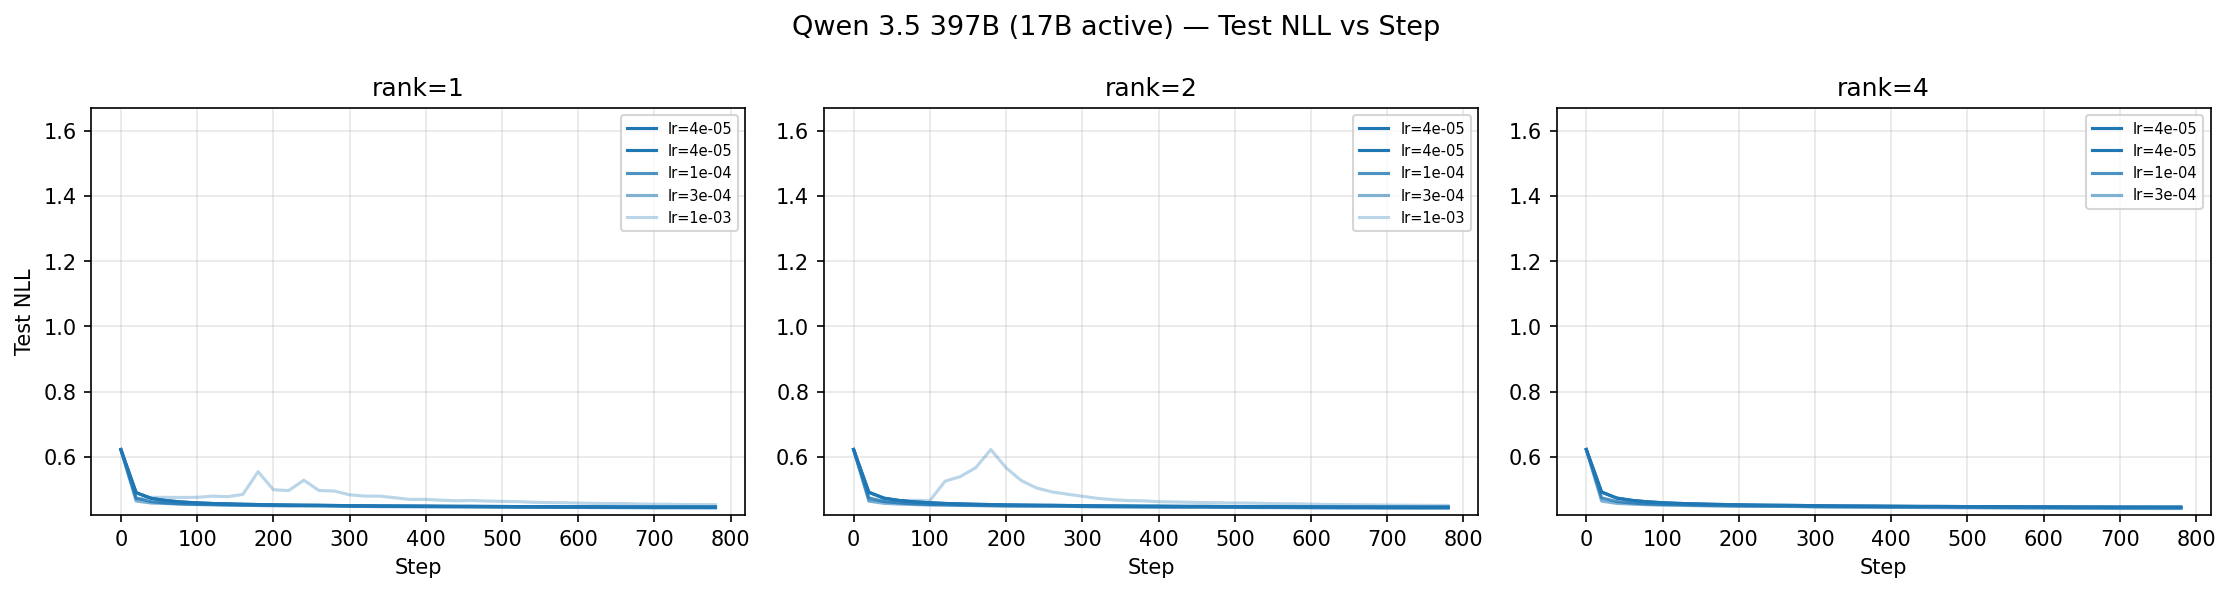
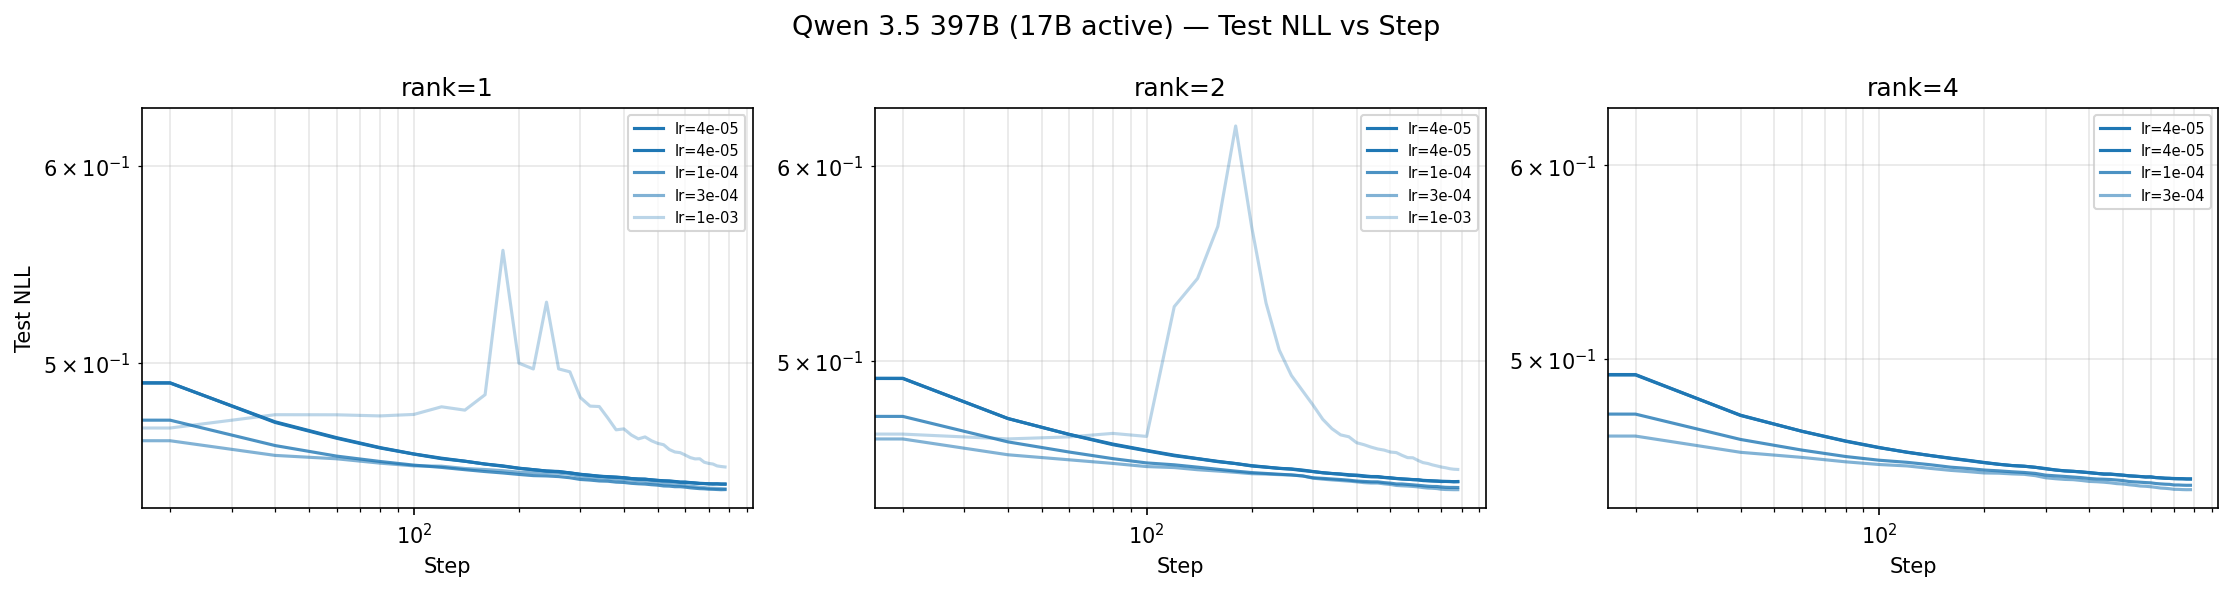
Improve sweep results: log-scale plots, TOC, wall time caveat
- Use log scale for both x and y axes in NLL curve plots for better
  visibility across orders of magnitude
- Add table of contents to sft_sweep.md for easier navigation
- Add note that wall times are approximate and server-dependent

diff --git a/tinker_cookbook/recipes/chat_sl/sweep/analyze.py b/tinker_cookbook/recipes/chat_sl/sweep/analyze.py
@@ -263,22 +263,10 @@ def generate_nll_plot(
                 alpha=lr_alpha.get(r.lr, 0.5),
             )
 
+        ax.set_xscale("log")
+        ax.set_yscale("log")
         ax.legend(fontsize=7, loc="upper right")
-        ax.grid(True, alpha=0.3)
-
-    # Shared y-axis across subplots for this model, with a small margin
-    all_nlls = [
-        nll
-        for r in runs
-        if r.test_nll < DIVERGENCE_THRESHOLD
-        for _, nll in r.history
-        if nll < DIVERGENCE_THRESHOLD
-    ]
-    if all_nlls:
-        ymin = min(all_nlls) - 0.02
-        ymax = max(all_nlls) + 0.02
-        for col in range(n_ranks):
-            axes[0][col].set_ylim(ymin, ymax)
+        ax.grid(True, alpha=0.3, which="both")
 
     plt.tight_layout()
 
@@ -396,7 +384,13 @@ def generate_model_section(
     return "\n".join(lines)
 
 
+def _heading_to_anchor(heading: str) -> str:
+    """Convert a markdown heading to a GitHub-compatible anchor link."""
+    return heading.lower().replace(" ", "-").replace("(", "").replace(")", "")
+
+
 def generate_sft_sweep_md(
+    model_names: list[str],
     model_sections: list[str],
 ) -> str:
     """Generate the full sft_sweep.md document."""
@@ -413,6 +407,19 @@ def generate_sft_sweep_md(
     lines.append("- Batch size: 128")
     lines.append("- Training steps: 780")
     lines.append("- Adapter: LoRA")
+    lines.append("")
+    lines.append(
+        "> **Note:** Wall times are approximate and depend on server load at the time of "
+        "the run. They may fluctuate significantly between runs."
+    )
+    lines.append("")
+
+    # Table of contents
+    lines.append("## Table of Contents")
+    lines.append("")
+    for name in model_names:
+        anchor = _heading_to_anchor(name)
+        lines.append(f"- [{name}](#{anchor})")
     lines.append("")
     lines.append("---")
     lines.append("")
@@ -467,9 +474,11 @@ def main() -> None:
     print(f"Found {len(by_model)} models: {list(by_model.keys())}")
 
     model_sections: list[str] = []
+    model_names: list[str] = []
     # Sort models by name for deterministic output
     for model_slug in sorted(by_model.keys()):
         model_runs = by_model[model_slug]
+        model_names.append(_pretty_model_name(model_slug))
         print(f"\n--- {_pretty_model_name(model_slug)} ({len(model_runs)} runs) ---")
 
         plot_path: str | None = None
@@ -487,7 +496,7 @@ def main() -> None:
         print(section)
 
     # Write the combined markdown
-    md_content = generate_sft_sweep_md(model_sections)
+    md_content = generate_sft_sweep_md(model_names, model_sections)
     md_path = output_dir / "sft_sweep.md"
     md_path.write_text(md_content)
     print(f"\nResults written to {md_path}")

diff --git a/tinker_cookbook/recipes/chat_sl/results/sft_sweep.md b/tinker_cookbook/recipes/chat_sl/results/sft_sweep.md
@@ -9,6 +9,38 @@ Use these as a reference when choosing learning rate and LoRA rank for your mode
 - Training steps: 780
 - Adapter: LoRA
 
+> **Note:** Wall times are approximate and depend on server load at the time of the run. They may fluctuate significantly between runs.
+
+## Table of Contents
+
+- [Qwen3 235B Instruct (22B active)](#qwen3-235b-instruct-22b-active)
+- [Qwen3 30B (3B active)](#qwen3-30b-3b-active)
+- [Qwen3 30B Base (3B active)](#qwen3-30b-base-3b-active)
+- [Qwen3 30B Instruct (3B active)](#qwen3-30b-instruct-3b-active)
+- [Qwen3 32B](#qwen3-32b)
+- [Qwen3 4B Instruct](#qwen3-4b-instruct)
+- [Qwen3 8B](#qwen3-8b)
+- [Qwen3 8B Base](#qwen3-8b-base)
+- [Qwen3 VL 235B (22B active)](#qwen3-vl-235b-22b-active)
+- [Qwen3 VL 30B (3B active)](#qwen3-vl-30b-3b-active)
+- [Qwen 3.5 27B](#qwen-3.5-27b)
+- [Qwen 3.5 35B (3B active)](#qwen-3.5-35b-3b-active)
+- [Qwen 3.5 397B (17B active)](#qwen-3.5-397b-17b-active)
+- [Qwen 3.5 4B](#qwen-3.5-4b)
+- [DeepSeek V3.1 Base](#deepseek-v3.1-base)
+- [Llama 3.1 70B](#llama-3.1-70b)
+- [Llama 3.1 8B](#llama-3.1-8b)
+- [Llama 3.1 8B Instruct](#llama-3.1-8b-instruct)
+- [Llama 3.2 1B](#llama-3.2-1b)
+- [Llama 3.2 3B](#llama-3.2-3b)
+- [Llama 3.3 70B Instruct](#llama-3.3-70b-instruct)
+- [Kimi K2 Thinking](#kimi-k2-thinking)
+- [Kimi K2.5](#kimi-k2.5)
+- [Nemotron Nano 30B (3B active)](#nemotron-nano-30b-3b-active)
+- [Nemotron Super 120B (12B active)](#nemotron-super-120b-12b-active)
+- [GPT-OSS 120B](#gpt-oss-120b)
+- [GPT-OSS 20B](#gpt-oss-20b)
+
 ---
 
 ## Qwen3 235B Instruct (22B active)
